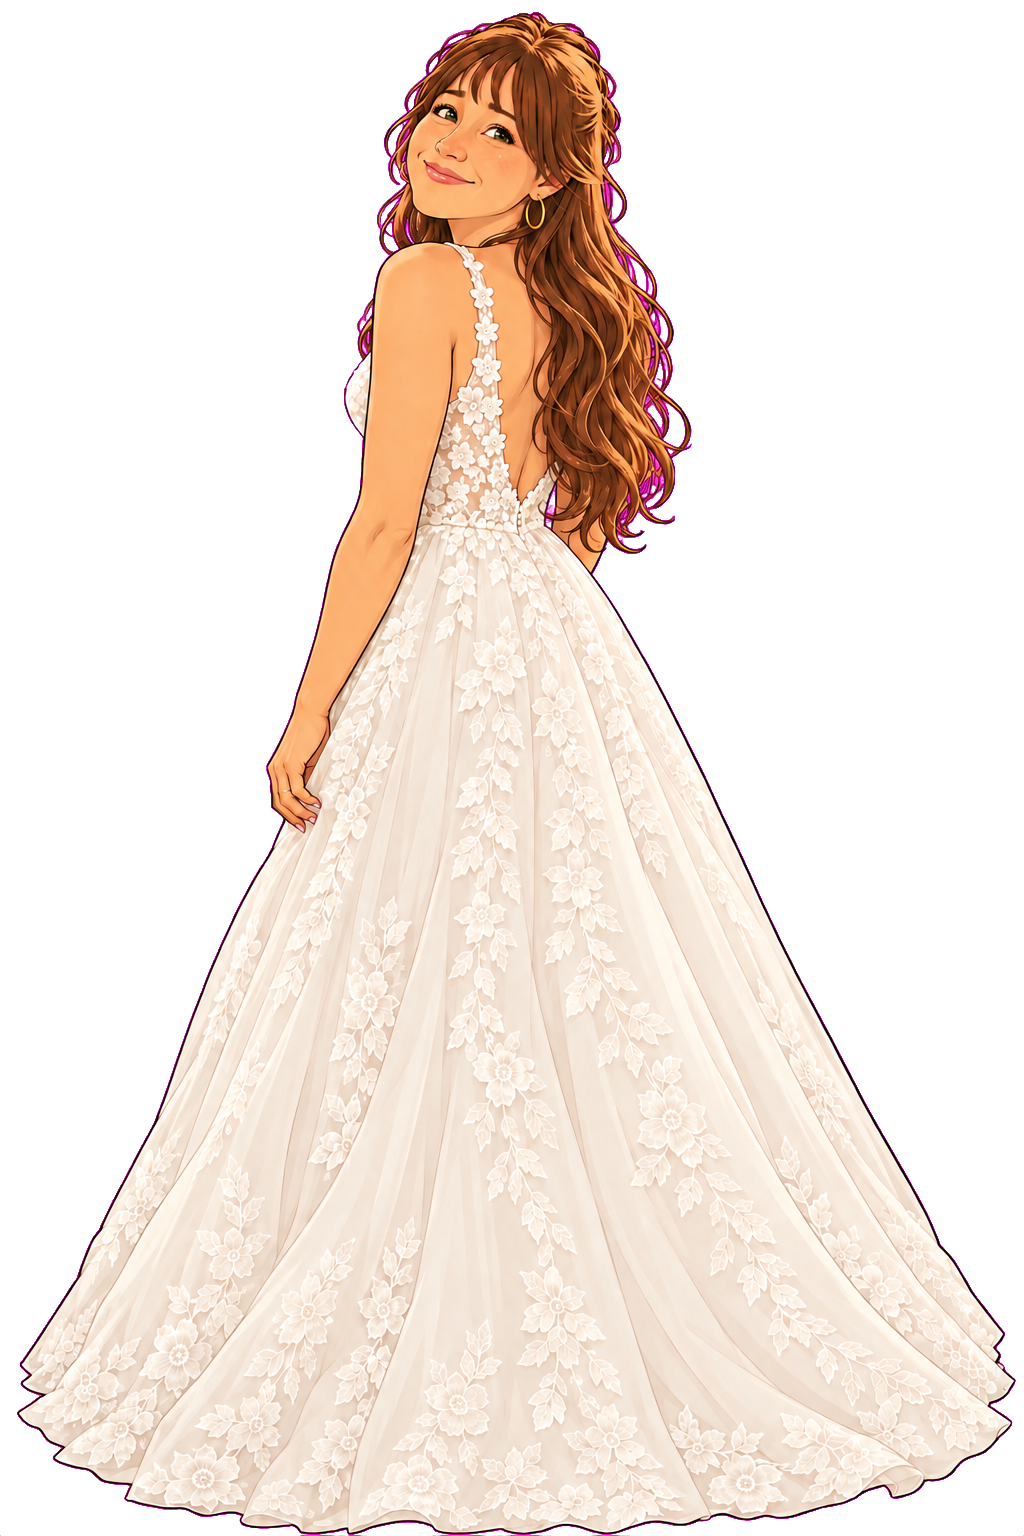
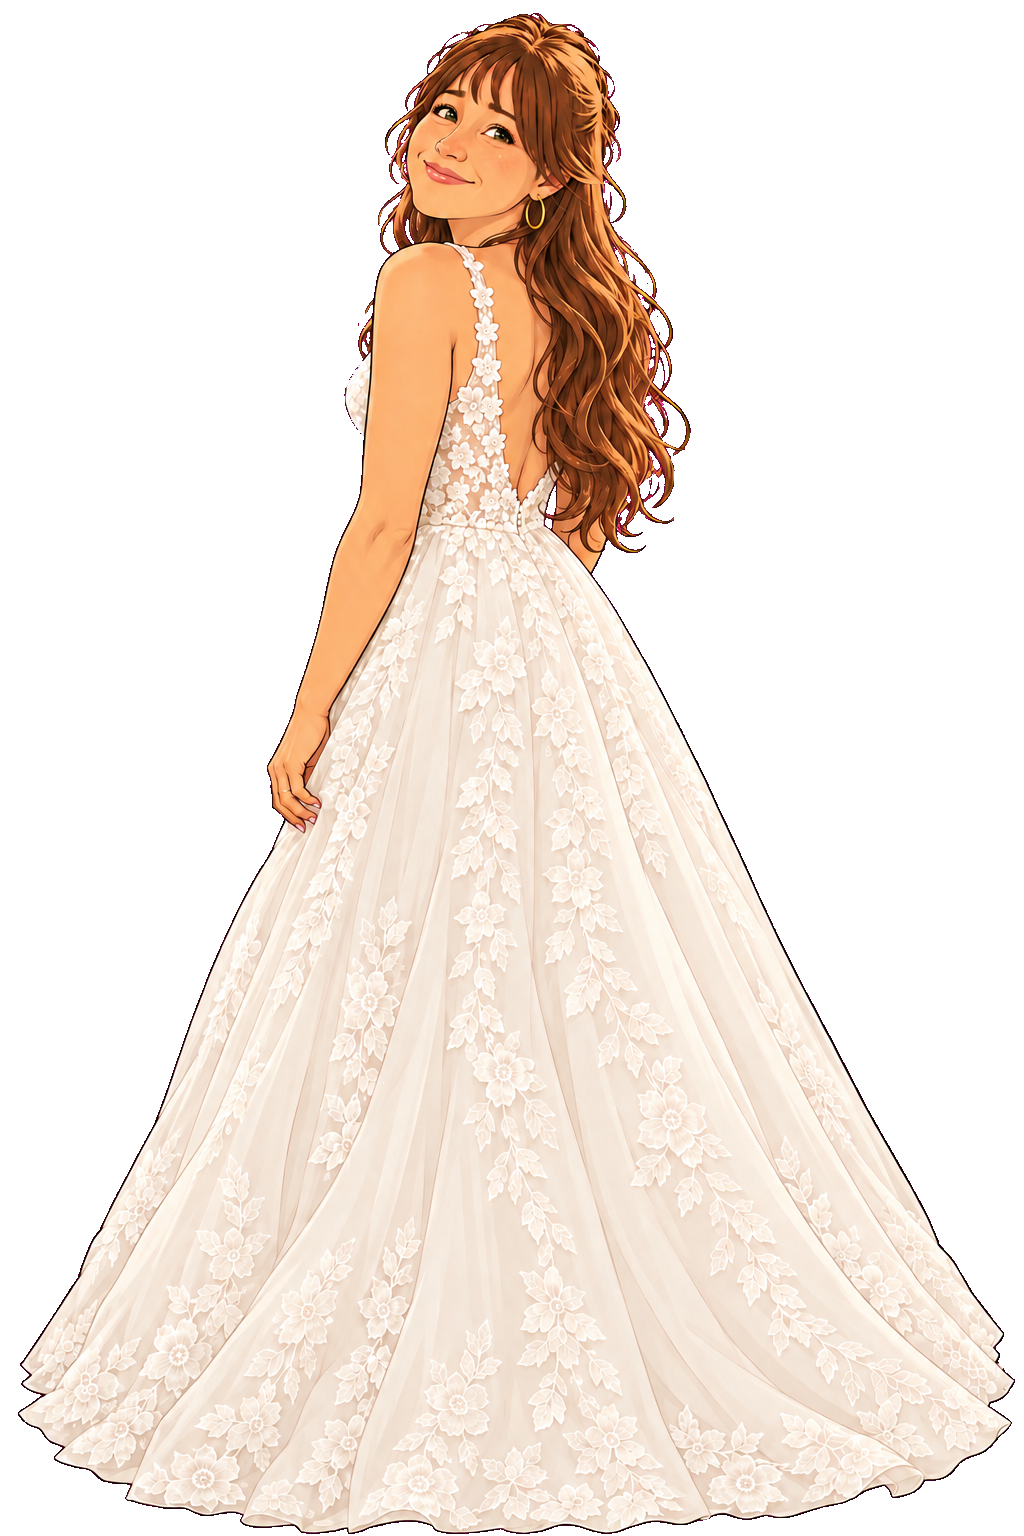
Compact contribution cards and add speech bubble

diff --git a/index.html b/index.html
@@ -2020,13 +2020,19 @@ table.shell-table tbody tr:hover { background: color-mix(in srgb, var(--accent) 
     .gifts-section { max-width:1180px; padding-bottom:0; overflow:hidden; }
     .gifts-section > .section-title, .gifts-section > .section-subtitle { text-align:center; margin-left:auto !important; margin-right:auto !important; }
     .gifts-grid { grid-template-columns:1fr 1fr; gap:2rem; max-width:960px; margin-inline:auto; align-items:end; }
-    .gift-person { position:relative; min-height:455px; display:flex; align-items:flex-end; box-sizing:border-box; }
-    .gift-card { width:clamp(280px,29vw,350px); min-height:420px; box-sizing:border-box; position:relative; z-index:2; overflow:visible; }
+    .gift-person { position:relative; min-height:405px; display:flex; align-items:flex-end; box-sizing:border-box; }
+    .gift-card { width:clamp(280px,29vw,350px); height:356px; min-height:0; box-sizing:border-box; position:relative; z-index:2; overflow:visible; }
+    .gift-card--nikki > p { margin-bottom:.65rem !important; }
+    .gift-card--nikki .bank-info-list { gap:.35rem; margin-bottom:.45rem; }
+    .gift-card--nikki .bank-info-item { padding:.4rem .5rem; }
+    .gift-card--nikki .note-disclaimer { margin-top:.35rem; }
     .gift-person--levi { justify-content:flex-end; padding-left:150px; }
     .gift-person--nikki { justify-content:flex-start; padding-right:150px; }
     .gift-character { position:absolute; z-index:1; width:280px; height:auto; max-height:445px; object-fit:contain; margin:0; border-radius:0; background:transparent; pointer-events:none; }
     .gift-character--levi { left:-20px; bottom:0; }
     .gift-character--nikki { right:-18px; bottom:0; }
+    .gift-speech { position:absolute; z-index:3; left:-24px; top:-44px; padding:.62rem .9rem; border:2px solid #34465f; border-radius:50%; background:#fff; color:#34465f; font:800 .82rem/1.15 var(--font-sans); white-space:nowrap; transform:rotate(-4deg); box-shadow:0 5px 14px rgba(28,43,61,.16); }
+    .gift-speech::after { content:""; position:absolute; left:28px; bottom:-13px; width:18px; height:18px; background:#fff; border-right:2px solid #34465f; border-bottom:2px solid #34465f; transform:rotate(45deg) skew(8deg,8deg); }
     .venue-inner > .sunflower-divider, .venue-inner > .section-title, .venue-inner > .section-subtitle { margin-left:auto !important; margin-right:auto !important; text-align:center !important; }
 
     .footer-logo { display:block; width:min(210px,52vw); height:auto; margin:1rem auto 1.25rem; }
@@ -2077,10 +2083,10 @@ table.shell-table tbody tr:hover { background: color-mix(in srgb, var(--accent) 
       .welcome-message { margin:0; }
       .timeline-section { background-attachment:scroll; }
       .gifts-grid { grid-template-columns:1fr; max-width:560px; gap:3rem; }
-      .gift-person { min-height:455px; }
+      .gift-person { min-height:405px; }
       .gift-person--levi { justify-content:flex-end; padding-left:120px; }
       .gift-person--nikki { justify-content:flex-start; padding-right:120px; }
-      .gift-card { width:min(100%,350px); min-height:420px; }
+      .gift-card { width:min(100%,350px); min-height:0; }
       .gift-character { width:240px; }
       .gallery-section .gallery-mosaic { display:flex; grid-template-rows:none; grid-auto-columns:auto; grid-auto-flow:row; gap:14px; overflow-x:auto; scroll-snap-type:x mandatory; padding:4px 7vw 18px; }
       .gallery-item,.gallery-item--hero,.gallery-item--portrait,.gallery-item--wide,.gallery-item--small { flex:0 0 82vw; height:clamp(360px,110vw,510px); grid-column:auto; grid-row:auto; scroll-snap-align:center; border-radius:14px; }
@@ -2101,19 +2107,20 @@ table.shell-table tbody tr:hover { background: color-mix(in srgb, var(--accent) 
       .gift-person { min-height:0; padding:0; align-items:flex-end; overflow:visible; }
       .gift-person--levi { justify-content:flex-end; z-index:1; }
       .gift-person--nikki { justify-content:flex-start; z-index:2; }
-      .gift-card { width:294px; min-height:0; padding:.85rem .9rem .9rem; }
+      .gift-card { width:280px; height:auto; min-height:0; padding:.7rem .8rem .75rem; }
       .gift-card p, .gift-card li { font-size:.84rem !important; line-height:1.45 !important; }
-      .gift-card > p { margin-bottom:.75rem !important; }
-      .gift-card .gift-header { margin-bottom:.85rem; padding-bottom:.75rem; }
+      .gift-card > p { margin-bottom:.55rem !important; }
+      .gift-card .gift-header { margin-bottom:.6rem; padding-bottom:.55rem; }
       .gift-card .gift-title { font-size:1.08rem; line-height:1.12; }
-      .gift-card .pix-box { margin-top:auto; padding:.75rem; }
+      .gift-card .pix-box { margin-top:.35rem; padding:.65rem; }
       .gift-card .pix-key { font-size:.88rem; letter-spacing:.03em; white-space:nowrap; }
-      .gift-card .bank-info-list { gap:.55rem; }
-      .gift-card .bank-info-item { padding:.65rem .7rem; }
-      .gift-card .note-disclaimer { margin-top:.65rem; font-size:.78rem; line-height:1.4; }
+      .gift-card .bank-info-list { gap:.35rem; margin-bottom:.55rem; }
+      .gift-card .bank-info-item { padding:.48rem .55rem; }
+      .gift-card .note-disclaimer { margin-top:.45rem; font-size:.76rem; line-height:1.35; }
       .gift-character { width:185px; height:270px; max-height:none; bottom:0; object-fit:contain; object-position:50% bottom; }
       .gift-character--levi { left:-12px; bottom:-3rem; }
       .gift-character--nikki { right:-30px; bottom:-1.75rem; }
+      .gift-speech { left:-4px; top:34px; padding:.5rem .68rem; font-size:.7rem; }
       .venue-gallery { grid-template-rows:220px 170px 150px 150px; }
     }
   </style>
@@ -2404,6 +2411,7 @@ table.shell-table tbody tr:hover { background: color-mix(in srgb, var(--accent) 
     <div class="gifts-grid">
       <!-- Levi · Pix (Brasil) -->
       <div class="gift-person gift-person--levi">
+        <span class="gift-speech">10 conto ou 10 pounds?</span>
         <img class="gift-character gift-character--levi" src="assets/levi-contribuicao-v2.png" alt="Ilustração de Levi apresentando as informações de contribuição" loading="lazy">
         <div class="gift-card gift-card--levi">
         <div class="gift-header">
@@ -2682,7 +2690,8 @@ table.shell-table tbody tr:hover { background: color-mix(in srgb, var(--accent) 
         'Estamos preparando as melhores opções para vocês': 'We are preparing the best options for you',
         'Vamos reunir aqui sugestões de hospedagem próximas ao espaço, com informações de localização e deslocamento para facilitar a organização da viagem.': 'We will share accommodation suggestions near the venue, along with location and transport information to make planning your trip easier.',
         '"Estamos contando os dias para celebrar, comer, beber, dançar, cantar e criar memórias incríveis ao lado de vocês."': '“We are counting down the days until we can celebrate, eat, drink, dance, sing and create wonderful memories with you.”',
-        'Copiado com sucesso!': 'Copied successfully!'
+        'Copiado com sucesso!': 'Copied successfully!',
+        '10 conto ou 10 pounds?': '10 reais or 10 pounds?'
       }));
 
       const englishAttributes = new Map(Object.entries({
